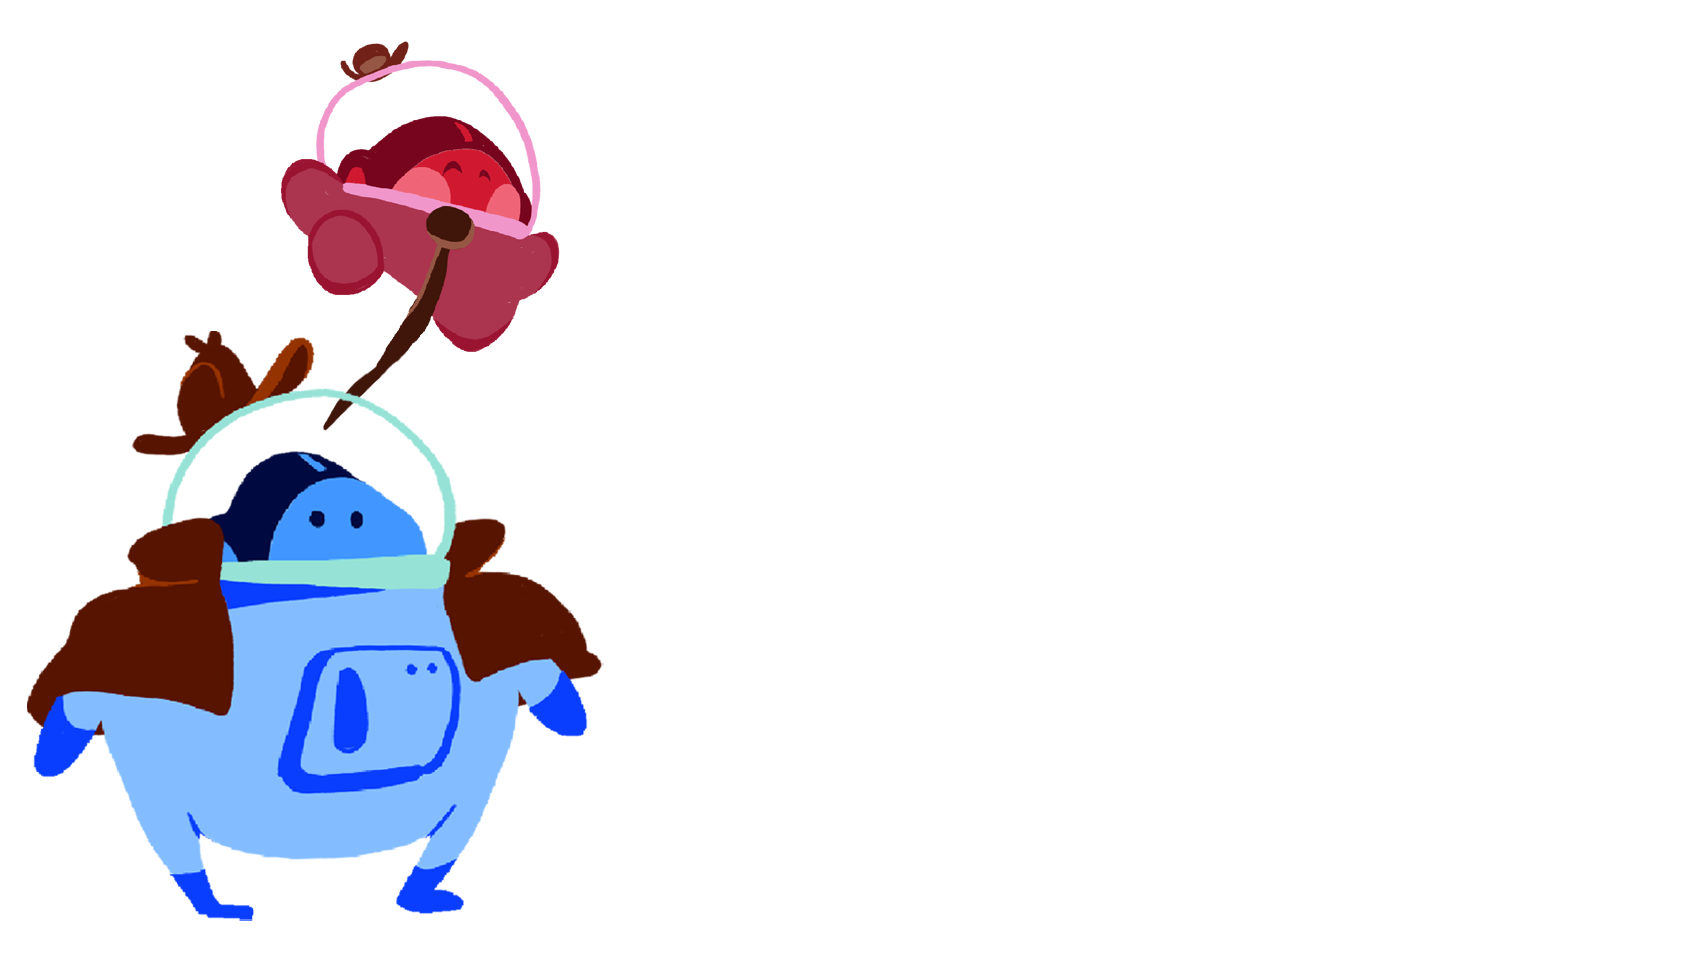
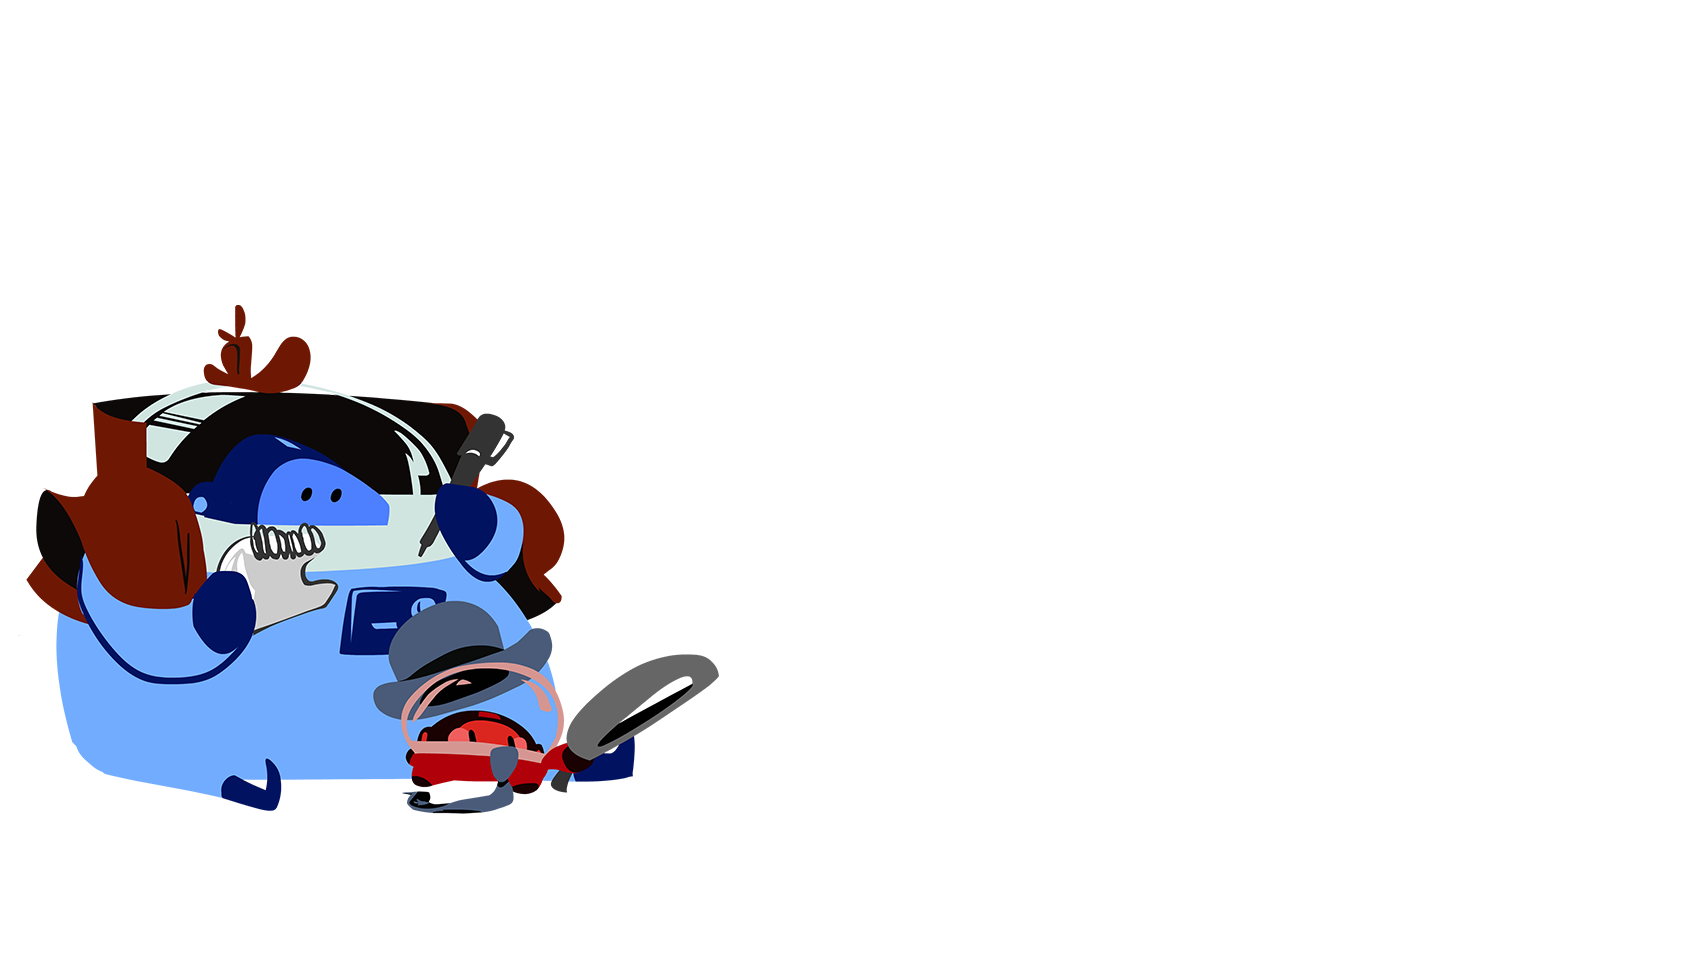
Updates and fixes as per testing - Improve sizing of H5P Audio quiz - Update end screen and question screen backgrounds - Show stage while lightbox open - Fix visual issues in backpack

Changed region(s): [[0.0, 0.0304, 0.4295, 0.9738]]

diff --git a/templates/vue/src/components/lightbox/quiz/Question.vue b/templates/vue/src/components/lightbox/quiz/Question.vue
@@ -1,5 +1,5 @@
 <template>
-  <div class="question">
+  <div class="question" :class="{'question-h5p':recorderOpened, 'question-gf':formOpened}">
     <gravity-form
       v-if="formOpened"
       :id="formId"
@@ -54,6 +54,7 @@
 <script>
 import { mapGetters } from "vuex"
 import AnswerButton from "./AnswerButton"
+import SpeechBubble from "../../SpeechBubble"
 import GravityForm from "./GravityForm"
 import Loading from "../../Loading"
 import TapestryAPI from "../../../services/TapestryAPI"
@@ -62,6 +63,7 @@ export default {
   name: "question",
   components: {
     AnswerButton,
+    SpeechBubble,
     Loading,
     GravityForm,
   },
@@ -157,7 +159,7 @@ export default {
 }
 </style>
 
-<style scoped>
+<style lang="scss" scoped>
 button {
   margin: auto;
 }
@@ -168,6 +170,10 @@ button {
   justify-content: space-between;
   height: 100%;
   width: 100%;
+
+  &.question-h5p {
+    max-width: 600px;
+  }
 }
 
 .question-title {

diff --git a/templates/vue/src/components/tyde/TydeLog.vue b/templates/vue/src/components/tyde/TydeLog.vue
@@ -50,16 +50,16 @@ img {
 }
 
 .thumbnail-placeholder {
-  min-width: 250px;
-  min-height: 250px;
+  width: 250px;
+  height: 250px;
   background-color: gray;
+  float: left;
 }
 
 .log-details {
-  display: flex;
+  float: right;
   font-size: 20px;
-  margin: 0 35px;
-  flex-direction: column;
+  width: calc(100% - 280px);
   word-break: break-word;
 }
 

diff --git a/templates/vue/src/components/lightbox/quiz/QuizScreen.vue b/templates/vue/src/components/lightbox/quiz/QuizScreen.vue
@@ -30,7 +30,7 @@ import { mapActions } from "vuex"
 import Question from "./Question"
 import Loading from "../../Loading"
 import Helpers from "../../../utils/Helpers"
-import BackgroundImg from "../../../assets/11-18-QuestionScreen.png"
+import BackgroundImg from "../../../assets/question-screen-bg.png"
 
 export default {
   name: "quiz-screen",

diff --git a/templates/vue/src/components/tyde/TydeModule.vue b/templates/vue/src/components/tyde/TydeModule.vue
@@ -1,7 +1,6 @@
 <template>
   <div :id="`module-${nodeId}`" class="wrapper">
     <tyde-stage
-      v-show="!lightbox.isOpen"
       :node-id="activeStage"
       @next="next"
     ></tyde-stage>
